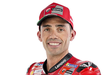
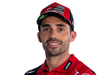
Use higher-resolution Michele Pirro photo
Replaces the 447x447 source with a 1920x1280 one: head 399px rather
than 245px, so it downscales 0.12x at @3x instead of 0.20x. This one is
team kit rather than leathers, which is barely visible at tile size.

Claude-Session: https://claude.ai/code/session_014CLVsmtiqS5tMzJV7xnFiZ

Changed region(s): [[0.2222, 0.0267, 0.9444, 1.0]]

diff --git a/photos/README.md b/photos/README.md
@@ -186,8 +186,9 @@ not on the 22-rider entry list above. Same spec and same framing.
 | `michele_pirro` | Michele Pirro | Gresini |
 
 `cal_crutchlow` is shot in Castrol LCR Honda leathers and `michele_pirro` in
-Ducati Lenovo, neither of which is the team the standings list them under —
-both ride for whoever they stand in for. Replace the source and re-run if that
+Ducati Lenovo team kit, neither of which is the team the standings list them
+under — both ride for whoever they stand in for. Pirro is also the one rider
+in a team polo rather than leathers, which is barely visible at tile size. Replace the source and re-run if that
 matters.
 
 Still missing, and needed for the standings to be complete: **Iker Lecuona**
@@ -203,6 +204,6 @@ too little to work with.
 Michele Pirro is the worked example. The first source supplied was a 250 × 250
 full-body cut-out in which the rider occupied 75 × 249 px: the face was too
 small for the detector to find at all, and a hand-placed crop would have been
-about 50 × 35 px, a 2.2× upscale at @3x. The replacement is a 447 × 447
-head-and-shoulders portrait on white — the head alone is 245 px, so it
-downscales 0.20× at @3x. Same rider, same spec, usable.
+about 50 × 35 px, a 2.2× upscale at @3x. The replacement is a 1920 × 1280
+head-and-shoulders portrait on white — the head alone is 399 px, so it
+downscales 0.12× at @3x. Same rider, same spec, usable.
